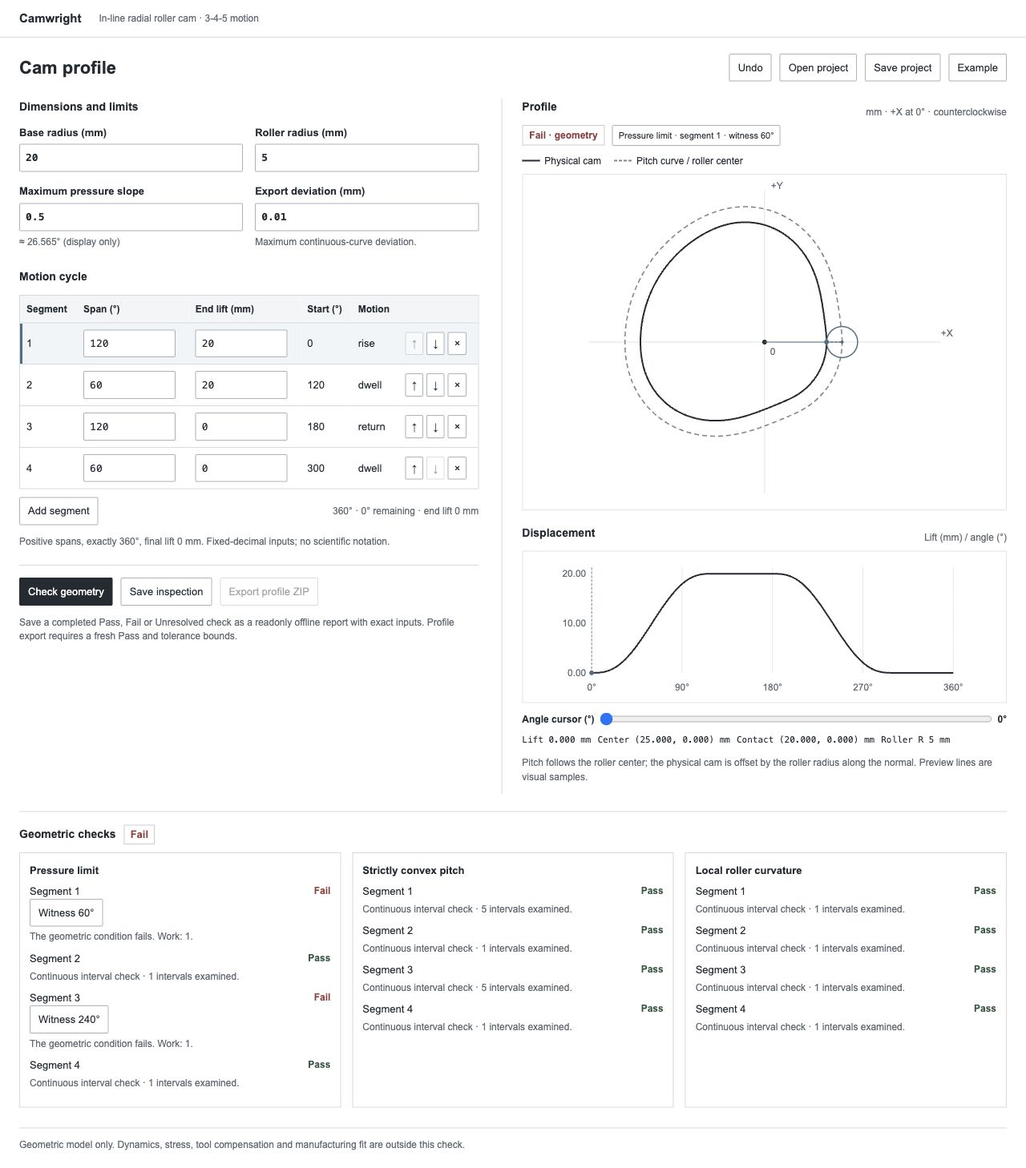
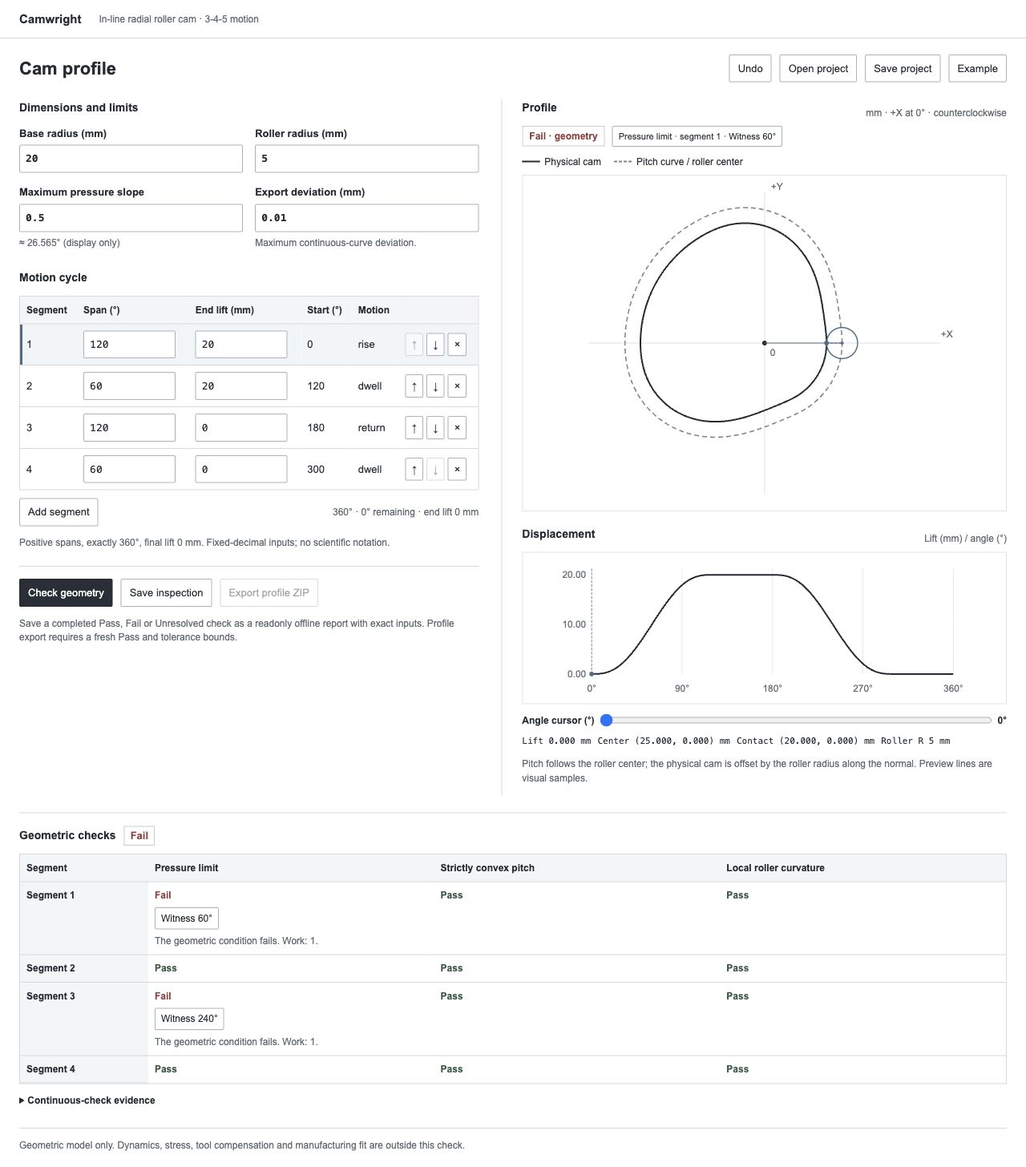
Keep segment editing and inspection witnesses easy to follow

diff --git a/camwright/static/app.js b/camwright/static/app.js
@@ -37,6 +37,7 @@ function remember() {
 }
 function changed() {
   revision++; dirty=true;if(checked){$('stale').textContent='Inputs changed · previous result';$('stale').hidden=false;}
+  $('check-announcement').textContent='';
   $('profile-status').textContent=checked?`Stale · previous ${states[checked.result.status]}`:'Not checked';$('profile-status').className='unknown';$('profile-witness').hidden=true;
   $('export').disabled=true; $('export-status').hidden=true;
   updateInspectionButton();
@@ -47,7 +48,14 @@ function changed() {
   $('angle-equivalent').textContent='Exact slope; approximate angle shown after checking.';
   notice('');
 }
-function edit(mutator) { remember(); mutator(); focusSnapshot=null; changed(); renderInputs(); }
+function edit(mutator, focusTarget) {
+  remember(); mutator(); focusSnapshot=null; changed(); renderInputs();
+  if(focusTarget){
+    const row=$('segments').children[Math.min(focusTarget.index,project.segments.length-1)];
+    const preferred=row?.querySelector(`[data-control="${focusTarget.control}"]`);
+    (preferred&&!preferred.disabled?preferred:row?.querySelector('input'))?.focus();
+  }
+}
 function bindInput(input,mutator) {
   input.addEventListener('focus',()=>{focusSnapshot={input,project:copy(project),recorded:false};});
   input.addEventListener('input',()=>{
@@ -64,11 +72,12 @@ function renderInputs() {
     const end=element('input',{type:'text',inputmode:'decimal',maxlength:'32','aria-label':`Segment ${i+1} end lift in millimetres`});end.value=row.end_mm;bindInput(end,v=>project.segments[i].end_mm=v);
     const controls=element('div',{class:'row-actions'});
     for(const [text,label,delta] of [['↑','Move segment up',-1],['↓','Move segment down',1]]){
-      const b=element('button',{'aria-label':`${label}: segment ${i+1}`,title:label},text);b.disabled=i+delta<0||i+delta>=project.segments.length;
-      b.addEventListener('click',()=>edit(()=>{[project.segments[i],project.segments[i+delta]]=[project.segments[i+delta],project.segments[i]];}));controls.append(b);
+      const control=delta<0?'move-up':'move-down';
+      const b=element('button',{'aria-label':`${label}: segment ${i+1}`,title:label,'data-control':control},text);b.disabled=i+delta<0||i+delta>=project.segments.length;
+      b.addEventListener('click',()=>edit(()=>{[project.segments[i],project.segments[i+delta]]=[project.segments[i+delta],project.segments[i]];},{index:i+delta,control}));controls.append(b);
     }
-    const remove=element('button',{'aria-label':`Remove segment ${i+1}`,title:'Remove segment'},'×');remove.disabled=project.segments.length<=1;
-    remove.addEventListener('click',()=>edit(()=>project.segments.splice(i,1)));controls.append(remove);
+    const remove=element('button',{'aria-label':`Remove segment ${i+1}`,title:'Remove segment','data-control':'remove'},'×');remove.disabled=project.segments.length<=1;
+    remove.addEventListener('click',()=>edit(()=>project.segments.splice(i,1),{index:i,control:'remove'}));controls.append(remove);
     const d=derived[i];
     $('segments').append(element('tr',{},element('td',{},String(i+1)),element('td',{},span),element('td',{},end),element('td',{class:'derived-start'},d?.start_deg_exact??'—'),element('td',{class:'derived-motion'},d?.motion??d?.kind??'—'),element('td',{},controls)));
   });
@@ -82,32 +91,63 @@ function showDerived(data) {
 function replaceProject(next,data,saved=false) {
   if(project)remember();project=copy(next);derived=data?.segments||[];revision++;checked=null;dirty=!saved;focusSnapshot=null;
   renderInputs();showDerived(data);for(const id of ['base','roller','slope','tolerance','save','example'])$(id).disabled=false;$('check').disabled=checkBusy;$('undo').disabled=!history.length;$('overall').textContent='Not checked';$('overall').className='';$('profile-status').textContent='Not checked';$('profile-status').className='';$('profile-witness').hidden=true;$('stale').hidden=true;
+  $('check-announcement').textContent='';
   $('check-details').textContent='Check the current motion cycle and dimensions.';$('export').disabled=true;$('cursor').disabled=true;$('cursor').value=0;$('cursor-angle').value='0°';
   updateInspectionButton();
   $('angle-equivalent').textContent='Exact slope; approximate angle shown after checking.';$('cursor-values').replaceChildren();$('profile').replaceChildren(svg('text',{x:260,y:210,'text-anchor':'middle'}));$('profile').firstChild.textContent='Check geometry to draw the profile.';$('displacement').replaceChildren();$('export-status').hidden=true;
 }
 function approximate(value){const parts=String(value).split('/');return Number(parts[0])/(parts.length>1?Number(parts[1]):1);}
-function resultCards(result) {
+function witnessText(item) {
+  return item.angle_deg!==undefined?`Witness ${item.angle_deg}°`:item.angle_interval_deg?`Interval ${item.angle_interval_deg.join('–')}°`:'Unresolved interval';
+}
+function witnessLabel(key, segment, item) {
+  return `${labels[key]} · segment ${segment+1} · ${witnessText(item)}`;
+}
+function showWitness(item) {
+  if(checkBusy||!checked||checked.revision!==revision)return;
+  const angle=item.angle_deg??item.angle_interval_deg?.[0];
+  if(angle===undefined)return;
+  setCursor(approximate(angle));
+  $('cursor').focus({preventScroll:true});
+  $('drawing-heading').scrollIntoView({block:'start',behavior:window.matchMedia('(prefers-reduced-motion: reduce)').matches?'auto':'smooth'});
+}
+function announceResult(result) {
+  const checks=result.segments.flatMap(segment=>Object.values(segment.checks));
+  const failed=checks.filter(item=>item.status==='fail').length;
+  const unresolved=checks.filter(item=>item.status==='unknown').length;
+  const outcome=result.status==='pass'?`All ${checks.length} checks passed.`:`${failed} failed checks; ${unresolved} unresolved checks.`;
+  $('check-announcement').textContent=`Geometry check complete: ${states[result.status]||'Unresolved'}. ${outcome} ${result.segments.length} motion segments. ${result.status==='pass'?'Profile export can now be requested.':'Profile export unavailable.'}`;
+}
+function renderResults(result) {
   $('overall').textContent=states[result.status]||'Unresolved';$('overall').className=result.status;
   $('profile-status').textContent=`${states[result.status]||'Unresolved'} · geometry`;$('profile-status').className=result.status;
   const issue=result.segments.flatMap(s=>Object.entries(s.checks).map(([key,item])=>({key,item,segment:s.segment}))).find(x=>x.item.status===result.status&&x.item.status!=='pass');
-  $('profile-witness').hidden=!issue;if(issue){const a=issue.item.angle_deg??issue.item.angle_interval_deg?.[0];$('profile-witness').textContent=`${labels[issue.key]} · segment ${issue.segment+1} · ${issue.item.angle_deg!==undefined?'witness':'interval'} ${issue.item.angle_deg??issue.item.angle_interval_deg?.join('–')??''}°`;$('profile-witness').onclick=()=>{if(a!==undefined)setCursor(approximate(a));$('cursor').scrollIntoView({block:'center',behavior:'smooth'});};}
+  $('profile-witness').hidden=!issue;if(issue){$('profile-witness').textContent=witnessLabel(issue.key,issue.segment,issue.item);$('profile-witness').setAttribute('aria-label',witnessLabel(issue.key,issue.segment,issue.item));$('profile-witness').disabled=(issue.item.angle_deg??issue.item.angle_interval_deg?.[0])===undefined;$('profile-witness').onclick=()=>showWitness(issue.item);}
   $('check-details').replaceChildren();
-  for(const [key,label] of Object.entries(labels)){
-    const card=element('div',{class:'check-card'},element('h3',{},label));
-    for(const segment of result.segments){
-      const item=segment.checks[key], state=states[item.status]||'Unresolved';
-      const row=element('div',{class:'check-row'},element('span',{},`Segment ${segment.segment+1}`),element('strong',{class:item.status},state));card.append(row);
-      if(item.status==='pass')card.append(element('p',{class:'hint'},`Continuous interval check · ${item.boxes} intervals examined.`));
+  const header=()=>element('thead',{},element('tr',{},element('th',{scope:'col'},'Segment'),...Object.values(labels).map(label=>element('th',{scope:'col'},label))));
+  const body=element('tbody'), evidenceBody=element('tbody');
+  const table=element('table',{class:'check-matrix'},header(),body);
+  const evidenceTable=element('table',{class:'check-evidence'},header(),evidenceBody);
+  for(const segment of result.segments){
+    const row=element('tr',{},element('th',{scope:'row'},`Segment ${segment.segment+1}`));
+    const evidenceRow=element('tr',{},element('th',{scope:'row'},`Segment ${segment.segment+1}`));
+    for(const key of Object.keys(labels)){
+      const item=segment.checks[key];
+      const cell=element('td',{},element('strong',{class:item.status},states[item.status]||'Unresolved'));
       if(item.status!=='pass'){
         const angle=item.angle_deg??item.angle_interval_deg?.[0];
-        const text=item.angle_deg!==undefined?`Witness ${item.angle_deg}°`:item.angle_interval_deg?`Interval ${item.angle_interval_deg.join('–')}°`:'Unresolved interval';
-        const b=element('button',{},text);b.disabled=angle===undefined;b.addEventListener('click',()=>setCursor(approximate(angle)));card.append(b);
-        const reason=(item.reason==='work_or_depth_limit'?'Subdivision work or depth limit reached.':item.reason)||(item.status==='fail'?'The geometric condition fails.':'Subdivision work or depth limit reached.');card.append(element('p',{class:'hint'},`${reason} Work: ${item.boxes}.`));
+        const button=element('button',{'aria-label':witnessLabel(key,segment.segment,item)},witnessText(item));
+        button.disabled=angle===undefined;button.addEventListener('click',()=>showWitness(item));cell.append(button);
+        const reason=(item.reason==='work_or_depth_limit'?'Subdivision work or depth limit reached.':item.reason)||(item.status==='fail'?'The geometric condition fails.':'Subdivision work or depth limit reached.');cell.append(element('p',{class:'hint'},`${reason} Work: ${item.boxes}.`));
       }
+      row.append(cell);
+      evidenceRow.append(element('td',{},`${states[item.status]||'Unresolved'} · ${item.boxes} intervals examined`));
     }
-    $('check-details').append(card);
+    body.append(row);evidenceBody.append(evidenceRow);
   }
+  const scroll=element('div',{class:'table-scroll',tabindex:'0',role:'region','aria-label':'Geometric checks by motion segment. Scroll horizontally on narrow screens.'},table);
+  const evidence=element('details',{class:'result-evidence'},element('summary',{},'Continuous-check evidence'),element('p',{class:'hint'},'Subdivision intervals examined for each continuous-angle check. Saved inspections retain the exact inputs and certificates.'),element('div',{class:'table-scroll',tabindex:'0',role:'region','aria-label':'Continuous-check subdivision counts. Scroll horizontally on narrow screens.'},evidenceTable));
+  $('check-details').append(scroll,evidence);
 }
 let plotMap;
 function drawPreview(preview) {
@@ -144,13 +184,15 @@ function download(blob,name){const url=URL.createObjectURL(blob),a=element('a',{
 async function validate(raw) {return(await request('/api/validate',{project},raw)).json();}
 $('check').addEventListener('click',async()=>{
   if(checkBusy)return;const current=copy(project),expected=revision;checkBusy=true;$('check').disabled=true;$('check').textContent='Checking…';$('export').disabled=true;notice('');$('profile-status').textContent='Checking geometry…';$('profile-status').className='unknown';$('profile-witness').hidden=true;if(checked){$('stale').textContent='Checking · previous result';$('stale').hidden=false;}
+  $('check-announcement').textContent='';
   if(checked)checked.inspection_id=null;updateInspectionButton();
   try{
     const data=await(await request('/api/check',{project:current})).json();
     if(expected!==revision){notice('Inputs changed during checking. Check the current draft.');return;}
-    checked={...data,revision:expected,project:current};showDerived(data.derived);resultCards(data.result);drawPreview(data.preview);$('stale').hidden=true;
+    checked={...data,revision:expected,project:current};showDerived(data.derived);renderResults(data.result);drawPreview(data.preview);$('stale').hidden=true;
     $('angle-equivalent').textContent=`≈ ${data.result.pressure_angle_limit_deg_approx.toFixed(3)}° (display only)`;
     $('export').disabled=data.result.status!=='pass';
+    announceResult(data.result);
   }catch(error){notice(error.message);$('profile-status').textContent=checked?`Stale · previous ${states[checked.result.status]}`:'Not checked';$('profile-status').className='unknown';if(checked){$('stale').textContent='Check failed · previous result';$('stale').hidden=false;}}finally{checkBusy=false;$('check').disabled=false;$('check').textContent='Check geometry';updateInspectionButton();}
 });
 $('cursor').addEventListener('input',()=>setCursor(Number($('cursor').value)));
@@ -162,7 +204,7 @@ for(const id of ['profile','displacement'])$(id).addEventListener('pointerdown',
   const closest=points.reduce((a,b)=>distance(a)<distance(b)?a:b);setCursor(closest.angle_deg);
 });
 for(const [id,key] of [['base','base_radius'],['roller','roller_radius'],['slope','maximum_pressure_slope'],['tolerance','tolerance_mm']])bindInput($(id),value=>project[key]=value);
-$('add').addEventListener('click',()=>edit(()=>project.segments.push({span_deg:'30',end_mm:'0'})));
+$('add').addEventListener('click',()=>edit(()=>project.segments.push({span_deg:'30',end_mm:'0'}),{index:project.segments.length,control:'span'}));
 $('undo').addEventListener('click',()=>{if(!history.length)return;project=history.pop();focusSnapshot=null;derived=[];changed();renderInputs();$('undo').disabled=!history.length;});
 $('save').addEventListener('click',async()=>{const expected=revision;try{const data=await validate();if(expected!==revision){notice('Inputs changed. Save the current draft again.');return;}download(new Blob([JSON.stringify(data.project,null,2)+'\n'],{type:'application/json'}),'camwright-project.json');dirty=false;notice('Project downloaded.');}catch(error){notice(error.message);}});
 $('open').addEventListener('click',()=>{$('file').value='';$('file').click();});

diff --git a/camwright/static/styles.css b/camwright/static/styles.css
@@ -1,5 +1,7 @@
-:root{color-scheme:light;font-family:Arial,Helvetica,sans-serif;color:#252b33;background:#fff;font-size:13px;line-height:1.45;font-variant-numeric:tabular-nums}*{box-sizing:border-box}body{margin:0}header{padding:12px 24px;border-bottom:1px solid #d5d9df;display:flex;gap:22px;align-items:center}header strong{font-size:15px}header span,.hint{color:#616973;font-size:12px}main{max-width:1540px;margin:auto;padding:20px 24px}h1{font-size:22px;margin:0}h2{font-size:14px;margin:0 0 12px}button,input{font:inherit;color:inherit}button{background:#fff;border:1px solid #adb4bd;border-radius:2px;padding:7px 10px;cursor:pointer;white-space:nowrap}button:hover:not(:disabled){background:#eef0f3}button:disabled{opacity:.45;cursor:default}button.primary{background:#252b33;color:white;border-color:#252b33}button.primary:hover:not(:disabled){background:#414956}input[type=text]{width:100%;min-width:0;background:#fff;border:1px solid #abb2bc;border-radius:2px;padding:7px;font-family:ui-monospace,SFMono-Regular,Consolas,monospace}input:focus,button:focus-visible,[tabindex]:focus-visible{outline:2px solid #506478;outline-offset:2px}label{display:flex;flex-direction:column;gap:5px;font-weight:600}label .hint{font-weight:400}.toolbar,.actions,.motion-actions,.check-actions,.plot-heading,.legend,.result-title{display:flex;align-items:center;gap:10px}.toolbar{justify-content:space-between;margin-bottom:22px}.workspace{display:grid;grid-template-columns:minmax(450px,1fr) minmax(400px,1.1fr);gap:28px}.inputs{min-width:0}.dimensions{display:grid;grid-template-columns:1fr 1fr;gap:15px;margin-bottom:25px}.table-scroll{overflow-x:auto;border:1px solid #d5d9df}table{width:100%;border-collapse:collapse;white-space:nowrap}th,td{text-align:left;padding:8px;border-bottom:1px solid #d5d9df}th{background:#f3f5f7;font-size:12px;font-weight:600}tr:last-child td{border-bottom:0}td input{max-width:115px}td .row-actions{display:flex;gap:4px}td button{padding:4px 7px}.motion-actions{justify-content:space-between;margin-top:10px}.check-actions{border-top:1px solid #d5d9df;padding-top:15px;margin-top:20px}.drawing{border-left:1px solid #d5d9df;padding-left:25px;min-width:0}.plot-heading{justify-content:space-between}.legend{font-size:12px;margin-bottom:8px;gap:16px}.legend span{display:flex;align-items:center;gap:6px}.legend i{width:22px;border-top:2px solid #252b33}.legend .dashed{border-color:#7c8793;border-top-style:dashed}svg{width:100%;display:block;border:1px solid #e0e3e7;background:#fff}svg text{font:12px Arial;fill:#616973}#profile{max-height:420px;margin-bottom:18px}#displacement{max-height:190px}.cursor-label{display:flex;flex-direction:row;align-items:center;margin-top:10px;font-size:12px}.cursor-label input{flex:1;min-width:50px}.cursor-values{font-family:ui-monospace,SFMono-Regular,Consolas,monospace;font-size:11px;display:flex;flex-wrap:wrap;gap:8px;margin:8px 0}.results{margin-top:22px;border-top:1px solid #d5d9df;padding-top:16px}.result-title{margin-bottom:10px}.result-title h2{margin:0}.result-title #stale{font-size:12px;color:#8a651b}.result-title strong{padding:2px 7px;border:1px solid #c7cdd4}#check-details{display:grid;grid-template-columns:repeat(3,1fr);gap:14px}.check-card{border:1px solid #d5d9df;padding:12px}.check-card h3{font-size:13px;margin:0 0 7px}.check-row{display:flex;align-items:flex-start;justify-content:space-between;gap:8px;margin-top:5px}.check-row button{font-size:11px;text-align:left;white-space:normal;padding:3px 6px}.pass{color:#315542}.fail{color:#963c40}.unknown{color:#8a651b}#notice{border-left:3px solid #963c40;background:#fafafa;padding:9px 12px;margin:0 0 18px}#export-status{font-size:12px;margin-top:14px}footer{margin-top:25px;border-top:1px solid #d5d9df;padding-top:12px;color:#616973;font-size:12px}.sr-only{position:absolute;width:1px;height:1px;overflow:hidden;clip:rect(0,0,0,0)}[hidden]{display:none!important}@media(max-width:1050px){.workspace{grid-template-columns:1fr}.drawing{border-left:0;border-top:1px solid #d5d9df;padding:20px 0 0}.drawing svg{max-width:740px;margin-left:auto;margin-right:auto}}@media(max-width:650px){header{padding:12px 16px;display:block}header span{display:block;margin-top:3px}main{padding:16px}.toolbar{align-items:flex-start;gap:14px;flex-direction:column}.actions{flex-wrap:wrap}.dimensions{grid-template-columns:1fr 1fr;gap:12px}#check-details{grid-template-columns:1fr}.legend,.plot-heading{flex-wrap:wrap}.legend{gap:8px}.result-title{flex-wrap:wrap}.cursor-values{display:block}.cursor-values span{display:block}th,td{padding:7px}.check-actions{flex-wrap:wrap}}
+:root{color-scheme:light;font-family:Arial,Helvetica,sans-serif;color:#252b33;background:#fff;font-size:13px;line-height:1.45;font-variant-numeric:tabular-nums}*{box-sizing:border-box}body{margin:0}header{padding:12px 24px;border-bottom:1px solid #d5d9df;display:flex;gap:22px;align-items:center}header strong{font-size:15px}header span,.hint{color:#616973;font-size:12px}main{max-width:1540px;margin:auto;padding:20px 24px}h1{font-size:22px;margin:0}h2{font-size:14px;margin:0 0 12px}button,input{font:inherit;color:inherit}button{background:#fff;border:1px solid #adb4bd;border-radius:2px;padding:7px 10px;cursor:pointer;white-space:nowrap}button:hover:not(:disabled){background:#eef0f3}button:disabled{opacity:.45;cursor:default}button.primary{background:#252b33;color:white;border-color:#252b33}button.primary:hover:not(:disabled){background:#414956}input[type=text]{width:100%;min-width:0;background:#fff;border:1px solid #abb2bc;border-radius:2px;padding:7px;font-family:ui-monospace,SFMono-Regular,Consolas,monospace}input:focus,button:focus-visible,summary:focus-visible,[tabindex]:focus-visible{outline:2px solid #506478;outline-offset:2px}label{display:flex;flex-direction:column;gap:5px;font-weight:600}label .hint{font-weight:400}.toolbar,.actions,.motion-actions,.check-actions,.plot-heading,.legend,.result-title{display:flex;align-items:center;gap:10px}.toolbar{justify-content:space-between;margin-bottom:22px}.workspace{display:grid;grid-template-columns:minmax(450px,1fr) minmax(400px,1.1fr);gap:28px}.inputs{min-width:0}.dimensions{display:grid;grid-template-columns:1fr 1fr;gap:15px;margin-bottom:25px}.table-scroll{overflow-x:auto;border:1px solid #d5d9df}table{width:100%;border-collapse:collapse;white-space:nowrap}th,td{text-align:left;padding:8px;border-bottom:1px solid #d5d9df}th{background:#f3f5f7;font-size:12px;font-weight:600}tr:last-child td{border-bottom:0}td input{max-width:115px}td .row-actions{display:flex;gap:4px}td button{padding:4px 7px}.motion-actions{justify-content:space-between;margin-top:10px}.check-actions{border-top:1px solid #d5d9df;padding-top:15px;margin-top:20px}.drawing{border-left:1px solid #d5d9df;padding-left:25px;min-width:0}.plot-heading{justify-content:space-between}.legend{font-size:12px;margin-bottom:8px;gap:16px}.legend span{display:flex;align-items:center;gap:6px}.legend i{width:22px;border-top:2px solid #252b33}.legend .dashed{border-color:#7c8793;border-top-style:dashed}svg{width:100%;display:block;border:1px solid #e0e3e7;background:#fff}svg text{font:12px Arial;fill:#616973}#profile{max-height:420px;margin-bottom:18px}#displacement{max-height:190px}.cursor-label{display:flex;flex-direction:row;align-items:center;margin-top:10px;font-size:12px}.cursor-label input{flex:1;min-width:50px}.cursor-values{font-family:ui-monospace,SFMono-Regular,Consolas,monospace;font-size:11px;display:flex;flex-wrap:wrap;gap:8px;margin:8px 0}.results{margin-top:22px;border-top:1px solid #d5d9df;padding-top:16px}.result-title{margin-bottom:10px}.result-title h2{margin:0}.result-title #stale{font-size:12px;color:#8a651b}.result-title strong{padding:2px 7px;border:1px solid #c7cdd4}#check-details{display:block}.pass{color:#315542}.fail{color:#963c40}.unknown{color:#8a651b}#notice{border-left:3px solid #963c40;background:#fafafa;padding:9px 12px;margin:0 0 18px}#export-status{font-size:12px;margin-top:14px}footer{margin-top:25px;border-top:1px solid #d5d9df;padding-top:12px;color:#616973;font-size:12px}.sr-only{position:absolute;width:1px;height:1px;overflow:hidden;clip:rect(0,0,0,0)}[hidden]{display:none!important}@media(max-width:1050px){.workspace{grid-template-columns:1fr}.drawing{border-left:0;border-top:1px solid #d5d9df;padding:20px 0 0}.drawing svg{max-width:740px;margin-left:auto;margin-right:auto}}@media(max-width:650px){header{padding:12px 16px;display:block}header span{display:block;margin-top:3px}main{padding:16px}.toolbar{align-items:flex-start;gap:14px;flex-direction:column}.actions{flex-wrap:wrap}.dimensions{grid-template-columns:1fr 1fr;gap:12px}.legend,.plot-heading{flex-wrap:wrap}.legend{gap:8px}.result-title{flex-wrap:wrap}.cursor-values{display:block}.cursor-values span{display:block}th,td{padding:7px}.check-actions{flex-wrap:wrap}}
 
-button{box-shadow:0 1px 1px #2028300d;transition:background-color .12s,border-color .12s}button:active:not(:disabled){background:#e0e5eb;box-shadow:inset 0 1px 2px #20283020}.active-segment td{background:#f1f5f8}.active-segment td:first-child{box-shadow:inset 3px 0 #506d87}.check-row strong{font-size:12px}.check-card p{margin:4px 0 9px}.drawing svg{cursor:crosshair}
+button{box-shadow:0 1px 1px #2028300d;transition:background-color .12s,border-color .12s}button:active:not(:disabled){background:#e0e5eb;box-shadow:inset 0 1px 2px #20283020}.active-segment td{background:#f1f5f8}.active-segment td:first-child{box-shadow:inset 3px 0 #506d87}.drawing svg{cursor:crosshair}
 
 .profile-state{display:flex;align-items:center;flex-wrap:wrap;gap:9px;margin-bottom:10px}.profile-state strong{font-size:12px;padding:3px 8px;border:1px solid #c7cdd4}.profile-state button{white-space:normal;text-align:left;font-size:11px;padding:4px 7px}
+
+.check-matrix,.check-evidence{min-width:640px}.check-matrix th[scope=row],.check-evidence th[scope=row]{width:90px;vertical-align:top}.check-matrix td{width:29%;vertical-align:top;white-space:normal}.check-matrix td strong{display:block;font-size:12px}.check-matrix td button{display:block;margin-top:6px;max-width:100%;white-space:normal;text-align:left;font-size:12px;overflow-wrap:anywhere}.check-matrix td .hint{margin:6px 0 0}.result-evidence{margin-top:12px}.result-evidence summary{cursor:pointer;font-size:12px;font-weight:600;width:fit-content}.result-evidence>p{margin:9px 0}.check-evidence td{font-size:12px;white-space:normal}

diff --git a/camwright/static/index.html b/camwright/static/index.html
@@ -6,6 +6,7 @@
 <main>
 <div class="toolbar"><h1>Cam profile</h1><div class="actions"><button id="undo" disabled>Undo</button><button id="open">Open project</button><button id="save">Save project</button><button id="example">Example</button></div></div>
 <p id="notice" role="status" aria-live="polite" hidden></p>
+<p id="check-announcement" class="sr-only" role="status" aria-live="polite" aria-atomic="true"></p>
 <div class="workspace">
 <section class="inputs" aria-labelledby="dimensions-heading">
 <h2 id="dimensions-heading">Dimensions and limits</h2>

diff --git a/tests/test_frontend.py b/tests/test_frontend.py
@@ -1,0 +1,15 @@
+import pathlib
+import shutil
+import subprocess
+import unittest
+
+
+@unittest.skipUnless(shutil.which("node"), "Node.js unavailable; frontend interaction checks skipped")
+class FrontendTests(unittest.TestCase):
+    def test_interaction_contracts(self):
+        root = pathlib.Path(__file__).resolve().parents[1]
+        checked = subprocess.run(
+            ["node", "--test", "tests/frontend.test.cjs"], cwd=root,
+            text=True, capture_output=True, timeout=30,
+        )
+        self.assertEqual(0, checked.returncode, checked.stdout + checked.stderr)

diff --git a/tests/installed_smoke.py b/tests/installed_smoke.py
@@ -19,7 +19,7 @@ import camwright
 
 
 def main():
-    assert version("camwright") == camwright.__version__ == "0.2.0"
+    assert version("camwright") == camwright.__version__
     with tempfile.TemporaryDirectory(prefix="camwright-installed-") as directory:
         child = subprocess.Popen([sys.executable, "-I", "-m", "camwright", "--no-browser"],
                                  cwd=directory, stdout=subprocess.PIPE, stderr=subprocess.PIPE, text=True)

diff --git a/camwright/__init__.py b/camwright/__init__.py
@@ -1,1 +1,1 @@
-__version__ = "0.2.0"
+__version__ = "0.2.1"

diff --git a/README.md b/README.md
@@ -53,3 +53,5 @@ The bounds concern the stated geometric model and mathematical approximation. Th
 Original code is MIT licensed. The interval arithmetic, Bernstein bounds and interpolation remainder are established mathematics implemented here; no claim of a new mathematical method or product-name availability is made. See [geometry contract](docs/geometry.md) and [local API](docs/api.md).
 
 Run checks with `python3 -m unittest discover -v`. The CI workflow runs the complete suite and an installed-wheel workflow on Python 3.12 and 3.14. The source archive includes the tests, installed smoke check, workflow and model/API docs. Local verification results for this change are recorded separately; no CI run is claimed before publication.
+
+When Node.js 18 or newer is available, the suite also checks frontend result announcements, segment focus, witness navigation and stale export gates. Run those cases directly with `node --test tests/frontend.test.cjs`. They exercise the real frontend with a small test-only DOM and HTTP substitute; browser layout and screen-reader speech need separate runtime checks.
